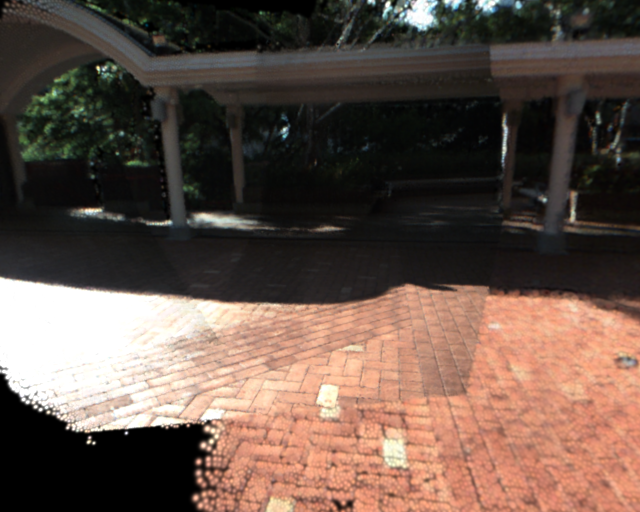
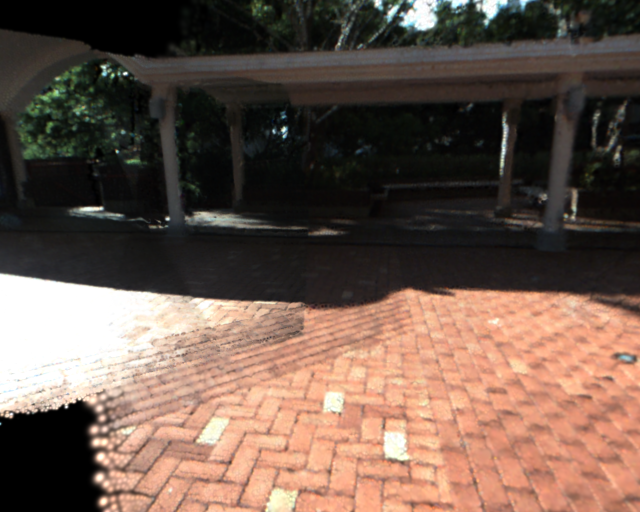
new experiment

diff --git a/intro-related_works-method-tex/RA-L/IEEE-Transactions-LaTeX2e-templates-and-instructions/04_experiment_section.tex b/intro-related_works-method-tex/RA-L/IEEE-Transactions-LaTeX2e-templates-and-instructions/04_experiment_section.tex
@@ -10,7 +10,7 @@
 \input{table.tex}
 
 \subsection{实验设置}
-我们主要从两方面验证所提方法的有效性：其一，在公开 R3LIVE（Avia）数据集、MCD（OS1-64）数据集及我们在东南大学四牌楼校区的自建数据集（采集硬件为 Livox Avia LiDAR 与 Hikvision MV-CA013-21UC RGB相机,以及LiDAR内置的200 Hz IMU）上与现有增量式高斯建图方法进行渲染质量的定量与定性对比；其二，在 \texttt{hku\_campus\_seq\_00} 上开展前馈回归器的消融分析，重点考察其对新高斯初始化质量与有限优化预算下早期收敛行为的影响。对于新视角渲染质量，我们采用 PSNR、SSIM 和 LPIPS 作为评价指标。所有方法均在相同数据划分下进行评测，序列中的非训练帧用于序列内新视角评估。为保证比较公平性，所有方法在每个序列上的总优化步数均统一限制为该序列图像帧数的 20 倍。
+我们主要从两方面验证所提方法的有效性：其一，在公开 R3LIVE（Avia）数据集、MCD（OS1-64）数据集及我们在东南大学四牌楼校区的自建数据集（采集硬件为 Livox Avia LiDAR 与 Hikvision MV-CA013-21UC RGB相机,以及LiDAR内置的200 Hz IMU）上与现有增量式高斯建图方法进行渲染质量的定量与定性对比；其二，在 \texttt{hku\_campus\_seq\_00} 上开展前馈回归器的消融分析，重点考察其对新高斯初始化质量与有限优化预算下早期收敛行为的影响。对于新视角渲染质量，我们采用 PSNR、SSIM 和 LPIPS 作为评价指标。所有方法均在相同数据划分下进行评测，序列中的非训练帧用于序列内新视角评估。为保证比较公平性，所有方法在每个序列上的总优化步数均统一限制为不超过该序列图像帧数的 20 倍。
 
 所有实验均在统一硬件与软件环境下完成系统部署、网络训练以及新场景测试评估。实验平台采用 Ubuntu 20.04（Python 3.8）环境，基于 PyTorch 2.0.0 与 CUDA 11.8 实现。硬件配置为单张 RTX 4090D（24GB）GPU、16 vCPU Intel(R) Xeon(R) Platinum 8481C 处理器以及 80GB 系统内存。
 
